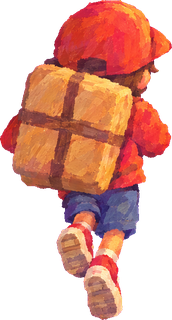
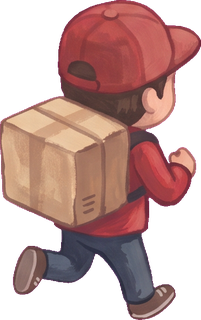
Regenerate all game art with genmedia on fal
Six Nano Banana 2 calls through genmedia: the pixel set from text
prompts, then found footage and gouache restyled from it with the edit
endpoint. Commands, prompts and timings are in genmedia-log.md.
Each style now carries its own lane layout.

diff --git a/index.html b/index.html
@@ -21,11 +21,12 @@
 <script>
 // Each style is a folder in assets/ with the same file names.
 // "blocks" has no files: it is the programmer-art version drawn in code.
+// A style whose ground tile has its own lane layout sets lanes and laneW.
 const STYLES = [
   { id: "blocks", label: "0 blocks" },
-  { id: "pixel", label: "1 pixel", smooth: false },
-  { id: "footage", label: "2 found footage", smooth: true },
-  { id: "gouache", label: "3 gouache", smooth: true },
+  { id: "pixel", label: "1 pixel", smooth: false, lanes: [0.262, 0.421, 0.579, 0.737], laneW: 0.158 },
+  { id: "footage", label: "2 found footage", smooth: true, lanes: [0.263, 0.428, 0.593, 0.758], laneW: 0.165 },
+  { id: "gouache", label: "3 gouache", smooth: true, lanes: [0.263, 0.428, 0.593, 0.758], laneW: 0.165 },
 ];
 const FILES = ["run1", "run2", "boxes", "barrier", "envelope", "puddle", "ground"];
 // lane centres and road edges as a fraction of the ground tile width
@@ -85,7 +86,7 @@ function reset() {
     things: [], nextRow: -200, score: 0, t: 0, hitT: 0, pops: [],
   };
 }
-function laneX(i) { return LANES[i] * W; }
+function laneX(i) { return (style.lanes || LANES)[i] * W; }
 
 const KINDS = {
   boxes:    { w: 1.15, bad: true },
@@ -252,7 +253,7 @@ function centerText(lines) {
 function draw() {
   ctx.imageSmoothingEnabled = style.smooth !== false;
   drawGround();
-  const lw = LANE_W * W;
+  const lw = (style.laneW || LANE_W) * W;
   const sorted = [...game.things].sort((a, b) => a.y - b.y);
   for (const t of sorted) if (KINDS[t.kind].flat) drawSprite(t.kind, laneX(t.lane), t.y, lw * KINDS[t.kind].w);
   for (const t of sorted) if (!KINDS[t.kind].flat) {

diff --git a/tools/extract.py b/tools/extract.py
@@ -56,7 +56,9 @@ def main(raw_dir, out_dir):
             continue
         cy = (sl[0].start + sl[0].stop) / 2
         cx = (sl[1].start + sl[1].stop) / 2
-        items.append((cy, cx, i, sl))
+        items.append((area, cy, cx, i, sl))
+    # some models print item labels under the art; keep the six largest shapes
+    items = [t[1:] for t in sorted(items, reverse=True)[:len(NAMES)]]
     h = rgb.shape[0]
     items.sort(key=lambda t: (round(t[0] / (h / 4)), t[1]))
     if len(items) != len(NAMES):

diff --git a/genmedia-log.md b/genmedia-log.md
@@ -1,0 +1,76 @@
+# genmedia run log, Dusk Delivery art
+
+Date: 2026-11-10 14:51 EST · genmedia 0.7.1
+
+## sheet
+
+```
+genmedia run fal-ai/nano-banana-2 --prompt "<sheet prompt>" --aspect_ratio 1:1 --resolution 2K --num_images 1 --download "sheet.{ext}" --json
+```
+
+Wall time: 17.4s · price: $0.08/image (listed by `genmedia pricing fal-ai/nano-banana-2`; 2K output may bill higher, check fal billing)
+
+Prompt: Game art for a VERTICAL top-down 3/4 view endless runner. Original character: a tiny courier kid with a red cap and red jacket and an oversized cardboard parcel strapped to their back, running up a city street at dusk. 16-bit pixel art, limited palette (about 24 colors), crisp pixel grid, no anti-aliasing, no blur, warm dusk light. ASSET SHEET on a perfectly flat solid magenta #FF00FF background, six items in two rows of three, evenly spaced and not touching, all in the same top-down 3/4 view and same scale. Top row: (a) the courier seen from behind running away from the camera, left foot forward; (b) the same pose, right foot forward; (c) a stack of cardboard boxes. Bottom row: (d) a striped road barrier with a traffic cone; (e) a glowing envelope with small sparkles; (f) a small puddle. No drop shadows on the background, no text, no labels.
+
+## ground
+
+```
+genmedia run fal-ai/nano-banana-2 --prompt "<ground prompt>" --aspect_ratio 9:16 --resolution 2K --num_images 1 --download "ground.{ext}" --json
+```
+
+Wall time: 18.8s · price: $0.08/image (listed by `genmedia pricing fal-ai/nano-banana-2`; 2K output may bill higher, check fal billing)
+
+Prompt: Game art for a VERTICAL top-down endless runner, 16-bit pixel art, limited palette, crisp pixel grid, no anti-aliasing, warm dusk light. GROUND TILE: a city street seen from directly above, four lanes separated by three columns of dashed yellow lane markings, the road in the middle 60 percent of the width, light stone sidewalks on both sides, brick building rooftops and windows at the left and right edges, small details like manholes, fallen leaves and cracks. Top and bottom edges seamlessly tileable vertically. No characters, no cars, no obstacles, no text.
+
+## After generation
+
+- Model chosen with `genmedia models "nano banana edit"` and `genmedia pricing`. GPT Image 2.5 Flare was skipped because its listed price is "1 unit" with no per-image figure.
+- Both runs are text-to-image from the prompts above, with no reference image.
+- The sheet came back with (a)–(f) labels under each item; `tools/extract.py` keeps the six largest shapes, so the labels drop out. The purple drop shadows are removed by the magenta key.
+- The ground tile had a row of curb stones at the bottom that breaks vertical tiling; it was trimmed to 1536×2600 (`ground-original.png` is the untouched download).
+- The new tile's lanes sit at 0.262 / 0.421 / 0.579 / 0.737 of the width, so the pixel style sets its own `lanes` in `index.html`.
+## footage-genmedia / sheet
+
+```
+genmedia run fal-ai/nano-banana-2/edit --prompt "<prompt>" --image_urls "[<pixel sheet from the run above>]" --aspect_ratio 1:1 --resolution 2K --num_images 1 --download "sheet.{ext}" --json
+```
+
+Wall time: 25.1s · price: $0.08/image listed
+
+Prompt: Restyle this game asset sheet. Keep exactly the same six items in exactly the same positions and sizes, on the same perfectly flat solid magenta #FF00FF background. Remove the (a)-(f) letters: no text or labels anywhere. No shadows on the background. Style: photographic found footage, as if real objects were filmed from above on an old camcorder at dusk: real materials, high ISO noise, crushed blacks, slight chromatic aberration, warm dusk light. The courier is a real kid in a red cap and red jacket with a real cardboard parcel on their back; real cardboard boxes; a real striped road barrier and plastic cone; a real paper envelope with a soft glow; a real rain puddle. Objects cleanly cut out on the magenta background.
+
+## footage-genmedia / ground
+
+```
+genmedia run fal-ai/nano-banana-2/edit --prompt "<prompt>" --image_urls "[<pixel ground from the run above>]" --aspect_ratio 9:16 --resolution 2K --num_images 1 --download "ground.{ext}" --json
+```
+
+Wall time: 27.1s · price: $0.08/image listed
+
+Prompt: Restyle this top-down street ground tile for a vertical runner game. Keep exactly the same composition: the road in the same place, the three columns of dashed yellow lane markings at exactly the same x positions, sidewalks and building rooftops at the same left and right edges. Top and bottom edges seamlessly tileable vertically. No people, no cars, no obstacles, no text. Style: photographic found footage, as if real objects were filmed from above on an old camcorder at dusk: real materials, high ISO noise, crushed blacks, slight chromatic aberration, warm dusk light.
+
+## gouache-genmedia / sheet
+
+```
+genmedia run fal-ai/nano-banana-2/edit --prompt "<prompt>" --image_urls "[<pixel sheet from the run above>]" --aspect_ratio 1:1 --resolution 2K --num_images 1 --download "sheet.{ext}" --json
+```
+
+Wall time: 21.8s · price: $0.08/image listed
+
+Prompt: Restyle this game asset sheet. Keep exactly the same six items in exactly the same positions and sizes, on the same perfectly flat solid magenta #FF00FF background. Remove the (a)-(f) letters: no text or labels anywhere. No shadows on the background. Style: hand-painted gouache storybook illustration, visible brush texture, soft muted palette with warm lamplight, flat matte shapes like a picture book. Keep the courier recognisable: red cap, red jacket, oversized cardboard parcel. Objects cleanly cut out on the magenta background.
+
+## gouache-genmedia / ground
+
+```
+genmedia run fal-ai/nano-banana-2/edit --prompt "<prompt>" --image_urls "[<pixel ground from the run above>]" --aspect_ratio 9:16 --resolution 2K --num_images 1 --download "ground.{ext}" --json
+```
+
+Wall time: 20.2s · price: $0.08/image listed
+
+Prompt: Restyle this top-down street ground tile for a vertical runner game. Keep exactly the same composition: the road in the same place, the three columns of dashed yellow lane markings at exactly the same x positions, sidewalks and building rooftops at the same left and right edges. Top and bottom edges seamlessly tileable vertically. No people, no cars, no obstacles, no text. Style: hand-painted gouache storybook illustration, visible brush texture, soft muted palette with warm lamplight, flat matte shapes like a picture book.
+
+## Found footage and gouache
+
+- The pixel sheet and ground above were uploaded with `genmedia upload` and passed as `image_urls` to `fal-ai/nano-banana-2/edit`, one call per sheet and per ground.
+- The gouache sheet kept one stray "(d)" label; `tools/extract.py` drops it with the others.
+- Both new ground tiles put the lanes at 0.263 / 0.428 / 0.593 / 0.758 of the width, set as `lanes` for those two styles in `index.html`.

diff --git a/README.md b/README.md
@@ -31,8 +31,8 @@ Each style is a folder in `assets/` with the same file names, so adding a fifth 
 ## How it was made
 
 - Game code: written with Claude Code, one HTML file, no build step.
-- Art: generated in [Lovart](https://www.lovart.ai) with GPT Image Flare. The pixel set was made first; the other two styles used it as a reference so items and lanes line up.
-- `tools/extract.py` cuts sprites out of each generated sheet (magenta key), shrinks them to web sizes and exports the ground tile.
+- Art: generated with [genmedia](https://genmedia.sh) on fal, six Nano Banana 2 calls. The pixel set came first from text prompts; found footage and gouache restyle it with the edit endpoint, so items and lanes line up. Commands, prompts and timings are in [`genmedia-log.md`](genmedia-log.md).
+- `tools/extract.py` cuts sprites out of each generated sheet (magenta key), shrinks them to web sizes and exports the ground tile. Styles whose ground tile has a different lane layout set their own `lanes` in `STYLES`.
 
 ## Run locally
 
